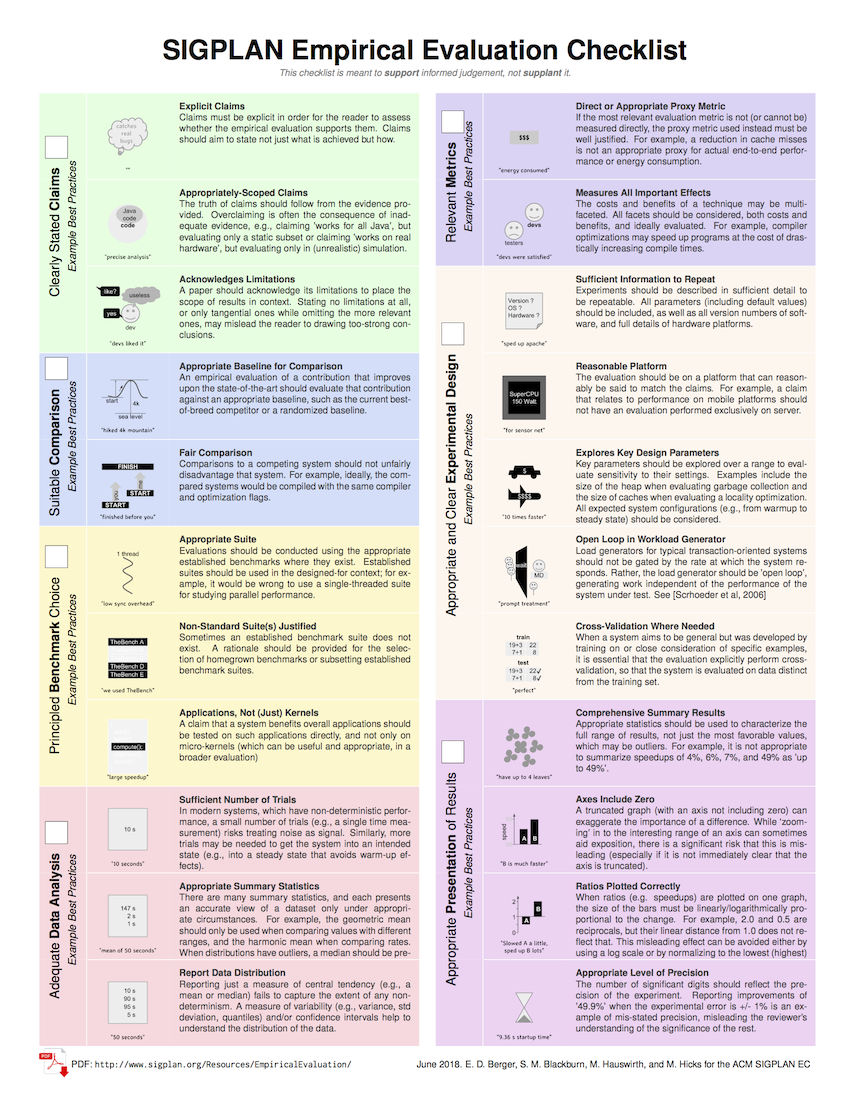
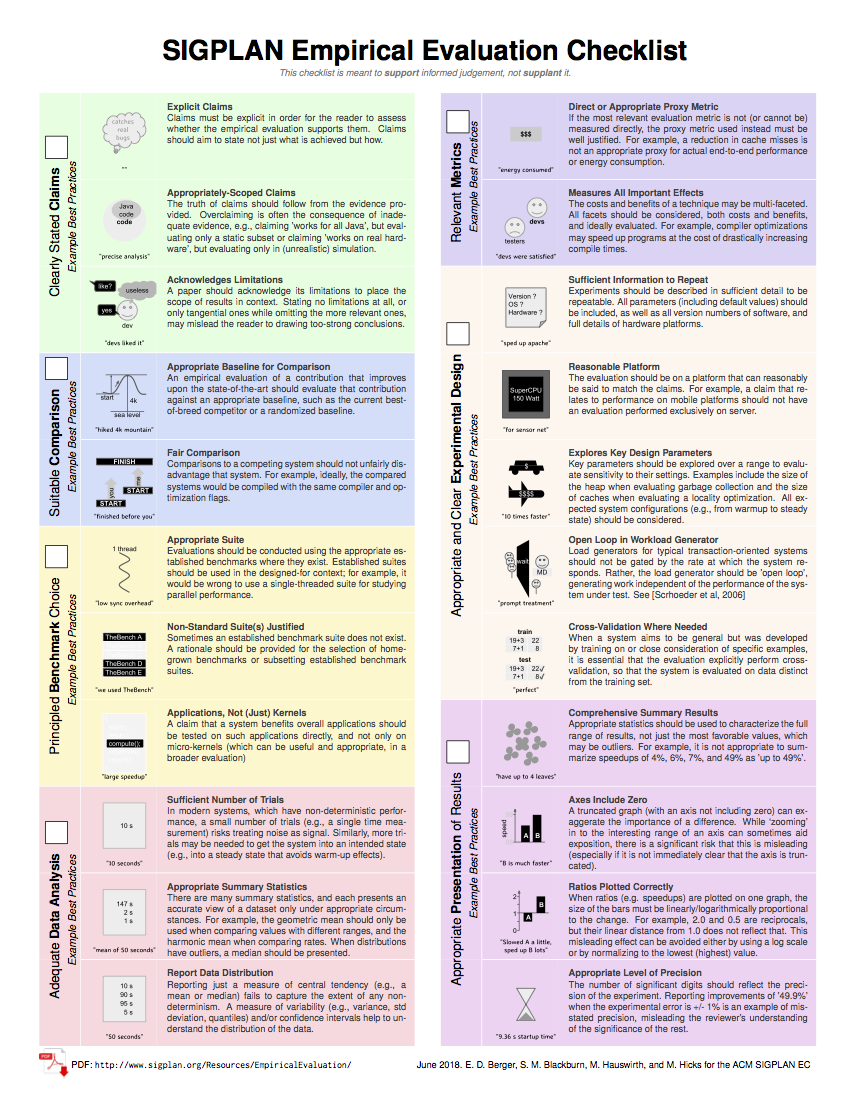
Fixed minor layout issue

Changed region(s): [[0.0612, 0.0309, 0.9482, 0.9891], [0.5812, 0.6491, 0.6424, 0.7109]]

diff --git a/checklist/genchecklist.py b/checklist/genchecklist.py
@@ -48,8 +48,8 @@ ltxprolog = r"""
 
 \newlength{\cellpad}\setlength{\cellpad}{2.1ex}
 \newlength{\rowheight}\setlength{\rowheight}{2.1cm}
-\newlength{\figwidth}\setlength{\figwidth}{1.65cm}
-\newlength{\descwidth}\setlength{\descwidth}{.30\textwidth}
+\newlength{\figwidth}\setlength{\figwidth}{1.8cm}
+\newlength{\descwidth}\setlength{\descwidth}{.31\textwidth}
 
 \newcommand{\checkbox}{{\hspace*{.3ex}\setlength{\fboxrule}{0.125pt}\raisebox{-.6ex}{\fcolorbox{black}{white}{\rule{0pt}{2ex}\hspace{2ex}}}}}
 \newlength{\vcbsize}
@@ -67,7 +67,7 @@ ltxprolog = r"""
 \scriptsize
 \begin{centering}
   \arrayrulecolor{white}
-  \begin{tabular}{c|cccc|cc}
+  \begin{tabular}{p{5ex}|p{1.5cm}cp{2ex}p{5ex}|p{1.5cm}c}
 """
 
 # latex row
